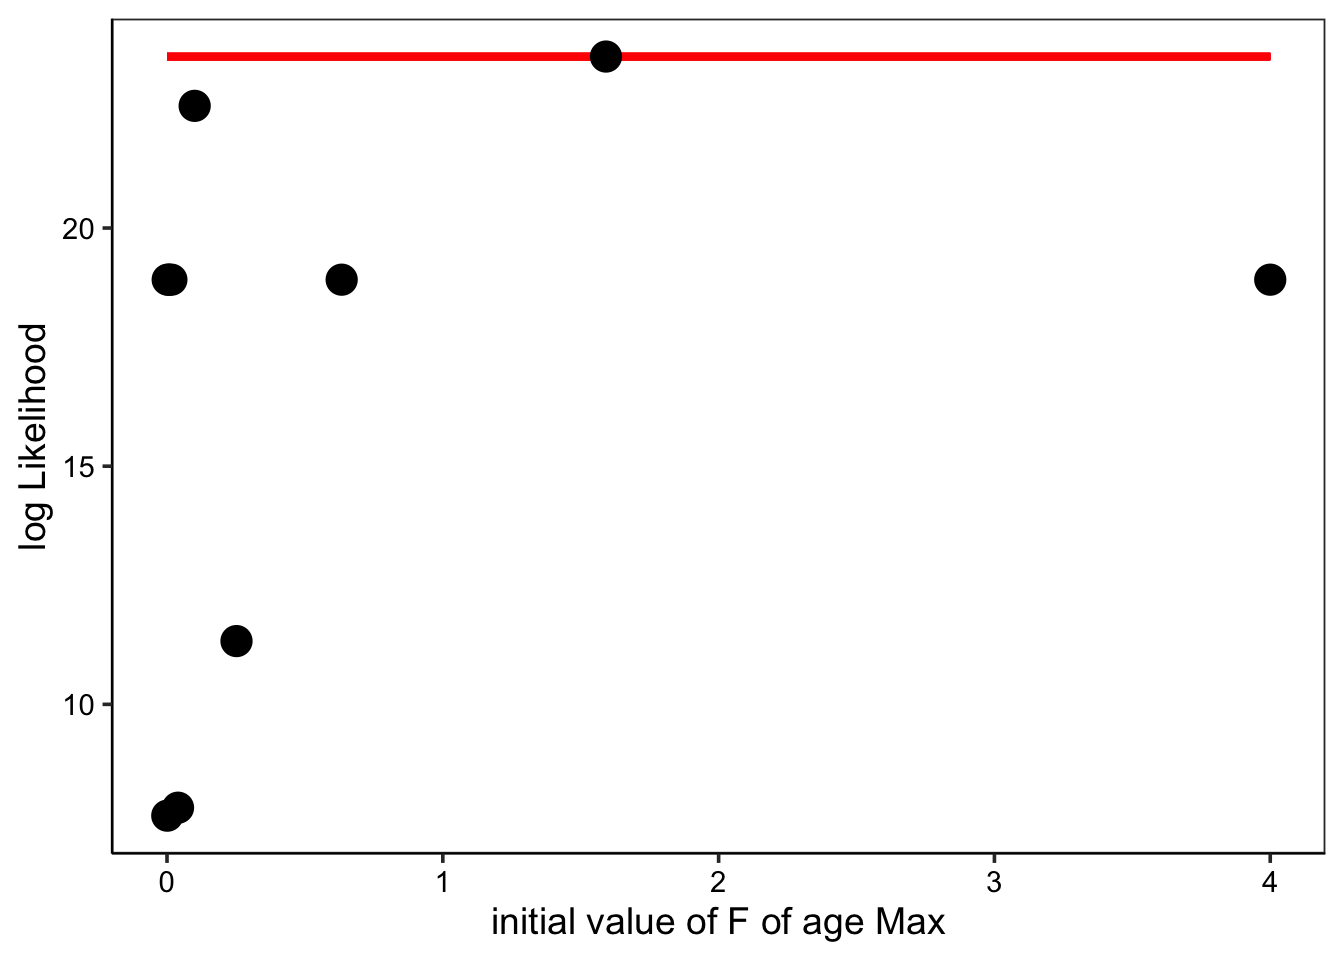
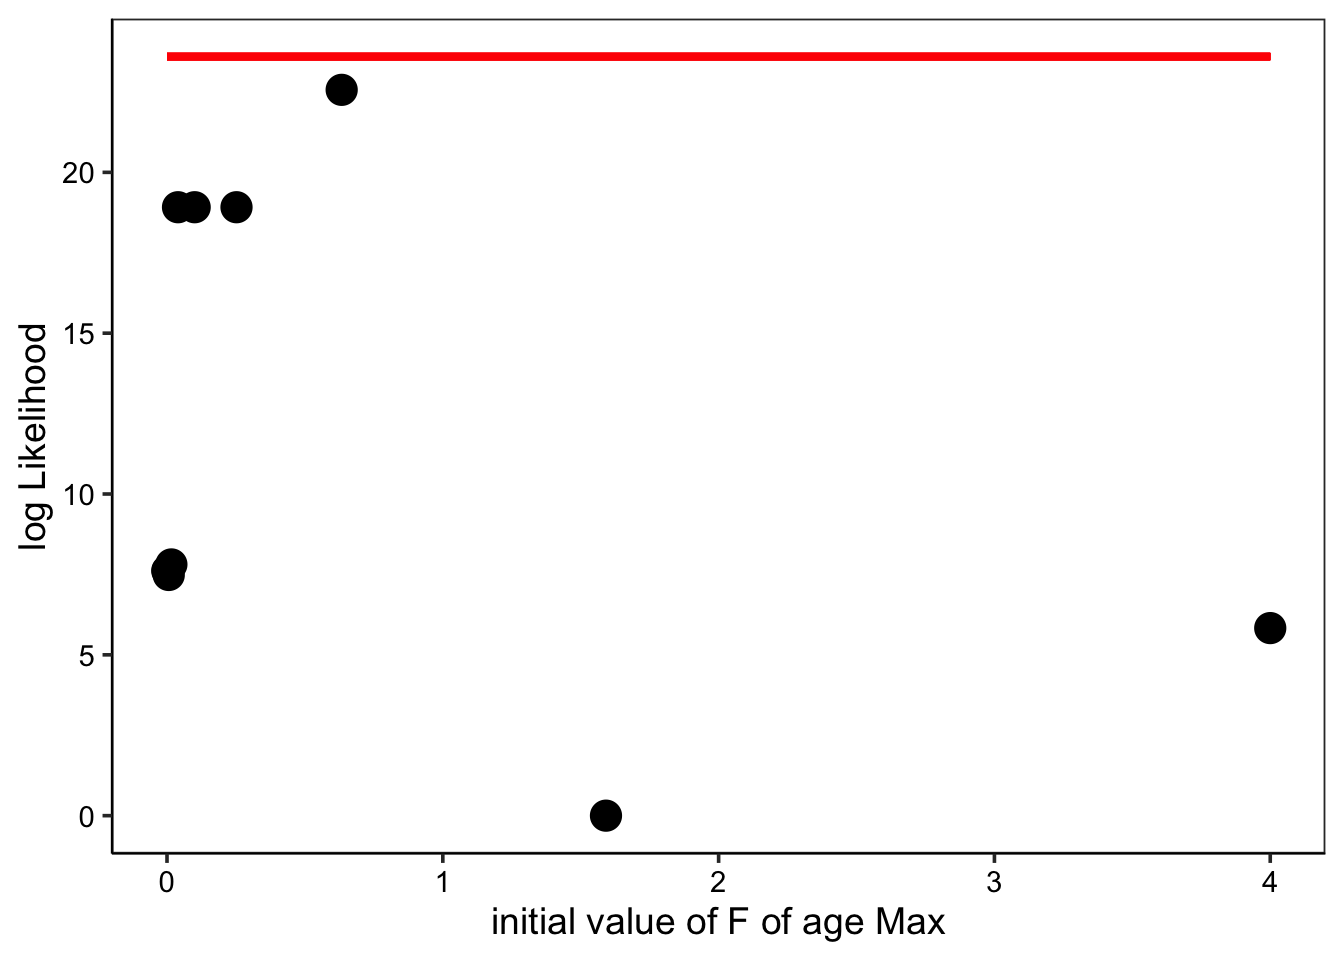
Built site for frasyr: 2.1.0.0@cc749a9

diff --git a/articles/Diagnostics-for-VPA.html b/articles/Diagnostics-for-VPA.html
@@ -431,7 +431,7 @@
 <div class="sourceCode" id="cb24"><pre class="downlit">
 <span class="kw">res_vpa_jitter</span> <span class="op">&lt;-</span> <span class="fu"><a href="../reference/do_estcheck_vpa.html">do_estcheck_vpa</a></span>(<span class="kw">res_vpa_estb</span>, n_ite=<span class="fl">10</span>)
 </pre></div>
-<pre><code>Maximum likelihood in jitter analysis is:  23.60018 
+<pre><code>Maximum likelihood in jitter analysis is:  22.5652 
 Likelihood with estimated parameters is:  23.60018 </code></pre>
 <p>最初に引数で与えたVPA結果について、</p>
 <ul>
@@ -573,7 +573,7 @@ Likelihood with estimated parameters is:  23.60018 </code></pre>
 <span class="fu"><a href="https://rdrr.io/r/stats/quantile.html">quantile</a></span>(<span class="kw">res_tmp</span>, probs = <span class="fu"><a href="https://rdrr.io/r/base/c.html">c</a></span>(<span class="fl">0.025</span>,<span class="fl">0.5</span>,<span class="fl">0.975</span>))
 </pre></div>
 <pre><code>     2.5%       50%     97.5% 
-0.5302698 0.7914968 7.6943043 </code></pre>
+0.5509240 0.7256303 6.8415086 </code></pre>
 <p>この他、各パラメータの相関関係について、ブートストラップ標本を基にプロットが得られます。</p>
 <div class="sourceCode" id="cb40"><pre class="downlit">
 <span class="kw">res_vpa_bootstrap</span><span class="op">$</span><span class="kw">plot_cor</span>
